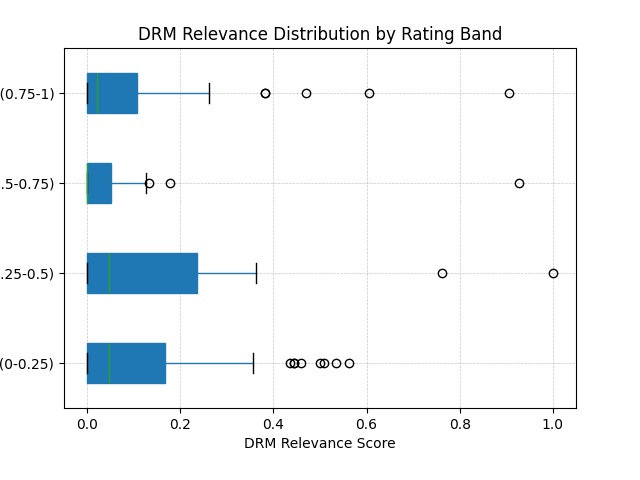
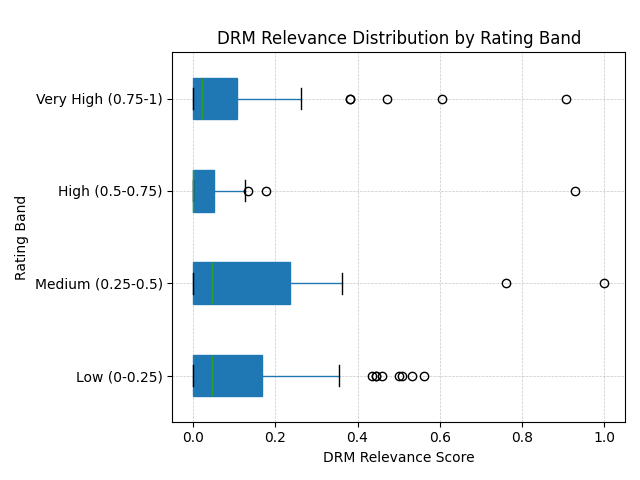
Fix image layout

diff --git a/graphing/review_plotter.py b/graphing/review_plotter.py
@@ -54,6 +54,7 @@ def plot_reviews_with_drm_relevance(filename: str):
     plt.title('Reviews DRM Relevance over Time with Normalized Product Ratings')
     plt.legend()
     plt.grid(True)
+    plt.tight_layout()
     plt.savefig(output_dir + '/drm_relevance_with_ratings_over_time.png')
 
 def plot_ratings_over_time(filename: str):
@@ -88,6 +89,7 @@ def plot_ratings_over_time(filename: str):
     plt.title('Normalized Product Ratings over Time')
     plt.legend()
     plt.grid(True)
+    plt.tight_layout()
     plt.savefig(output_dir + '/ratings_over_time.png')
 
 def plot_drm_relevance_vs_rating(filename: str):
@@ -122,6 +124,7 @@ def plot_drm_relevance_vs_rating(filename: str):
     plt.title('DRM Relevance vs Rating Analysis')
     plt.legend()
     plt.grid(True)
+    plt.tight_layout()
     plt.savefig(output_dir + '/drm_relevance_vs_rating.png')
 
 def plot_drm_relevance_by_rating_band(filename: str):
@@ -150,6 +153,7 @@ def plot_drm_relevance_by_rating_band(filename: str):
     plt.xlabel('DRM Relevance Score')
     plt.ylabel('Rating Band')
     plt.grid(True, linestyle='--', linewidth=0.5, alpha=0.7)
+    plt.tight_layout()
     plt.savefig(output_dir + '/drm_relevance_distribution_by_rating_band.png')
 
 
